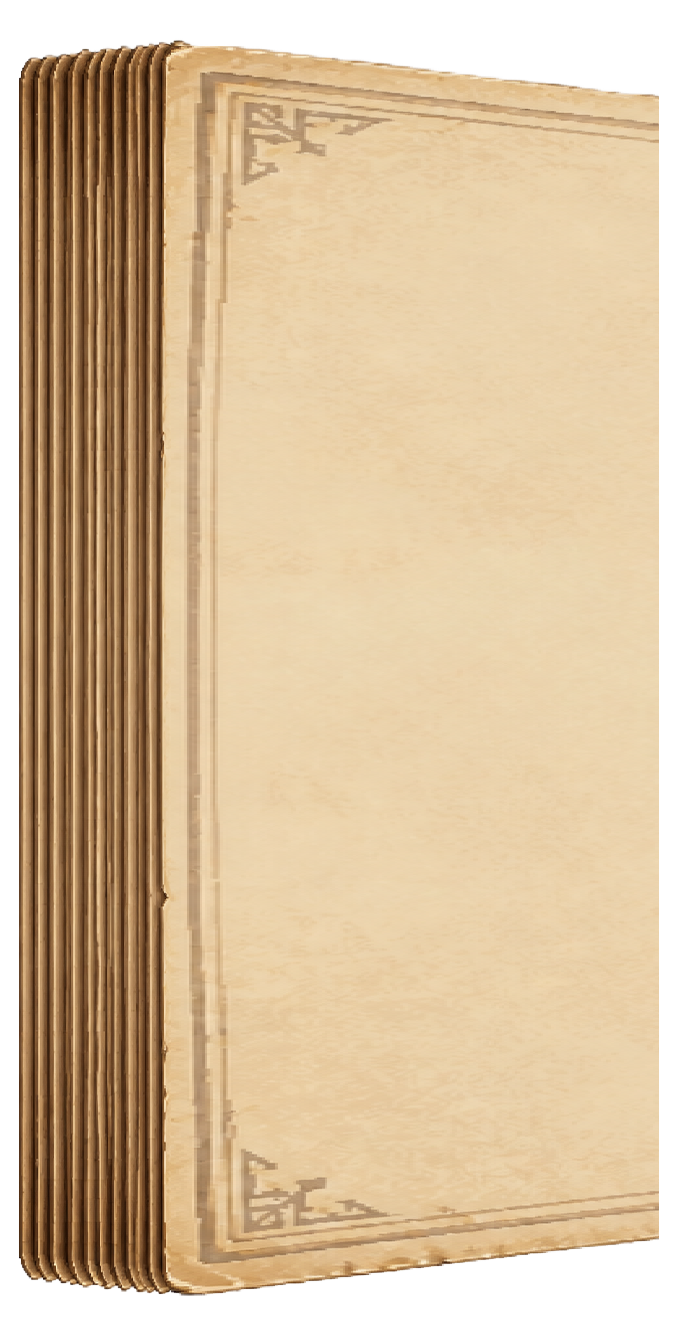
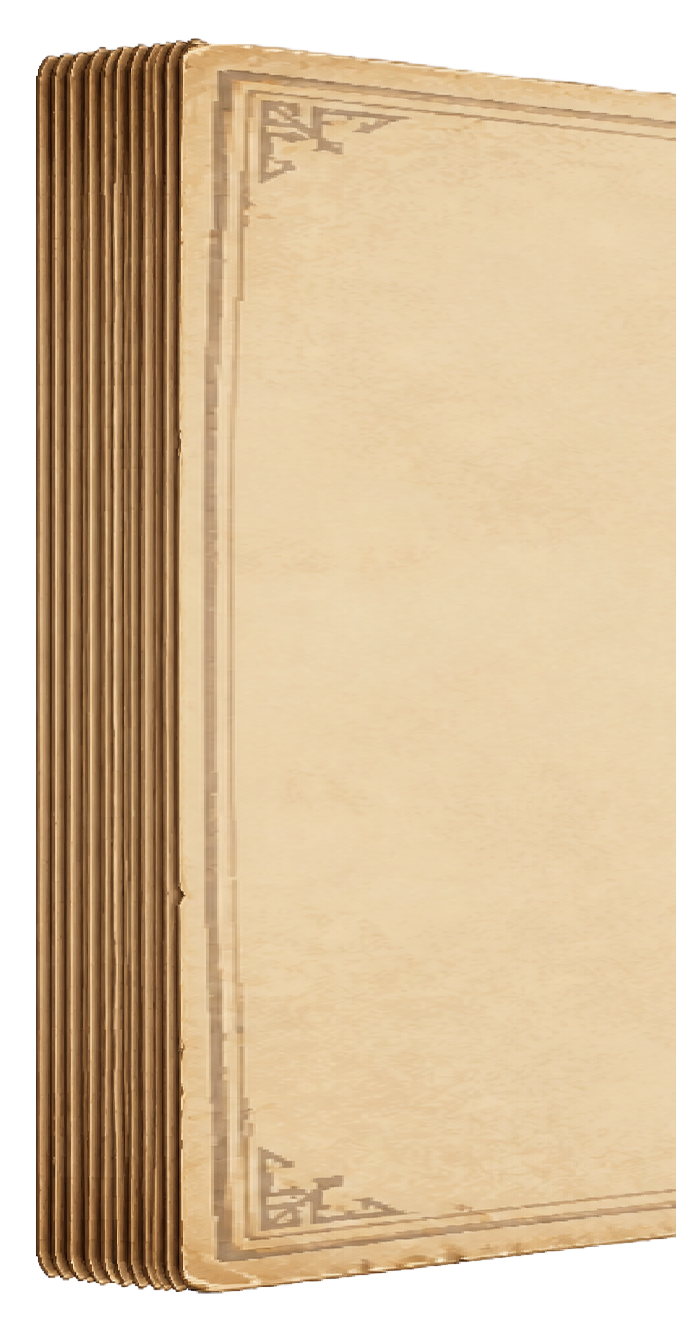
thats it

Changed region(s): [[0.0311, 0.0307, 1.0, 0.9835], [0.8077, 0.922, 0.8388, 0.9528]]

diff --git a/src/ui/KeywordIntroOverlay.ts b/src/ui/KeywordIntroOverlay.ts
@@ -50,7 +50,9 @@ export function openKeywordIntroOverlay(
   if (scene.textures.exists(bakedKey)) {
     const img = scene.add.image(cx, cy, bakedKey).setInteractive();
     const src = scene.textures.get(bakedKey).getSourceImage() as HTMLImageElement;
-    const displayW = Math.min(src.width, LAYOUT.canvasWidth * 0.9);
+    // Scale the baked keyword card down to 40% of its previous on-screen size
+    // (these popups were filling ~90% of the canvas width — far too large).
+    const displayW = Math.min(src.width, LAYOUT.canvasWidth * 0.9) * 0.4;
     img.setDisplaySize(displayW, displayW * (src.height / src.width));
     overlay.add(img);
 